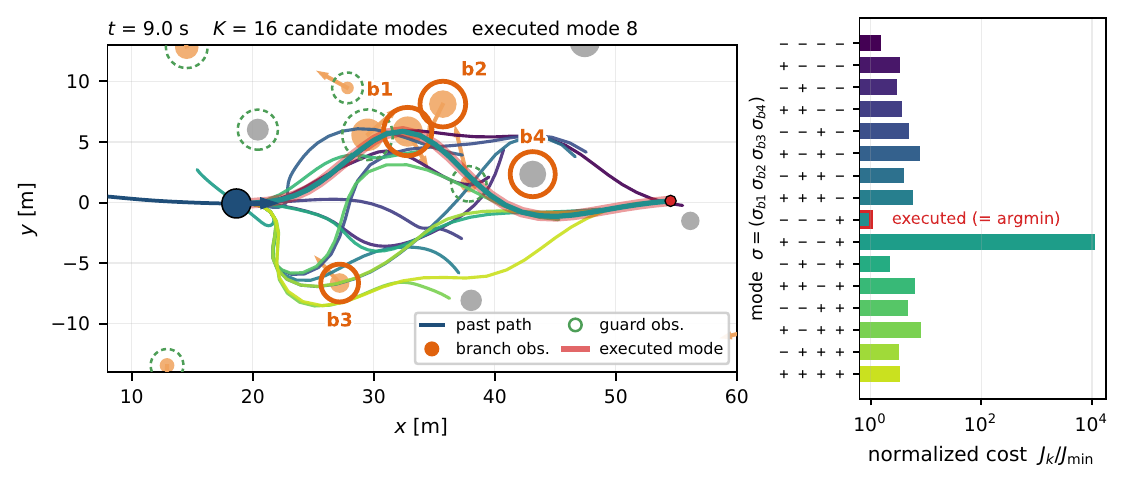
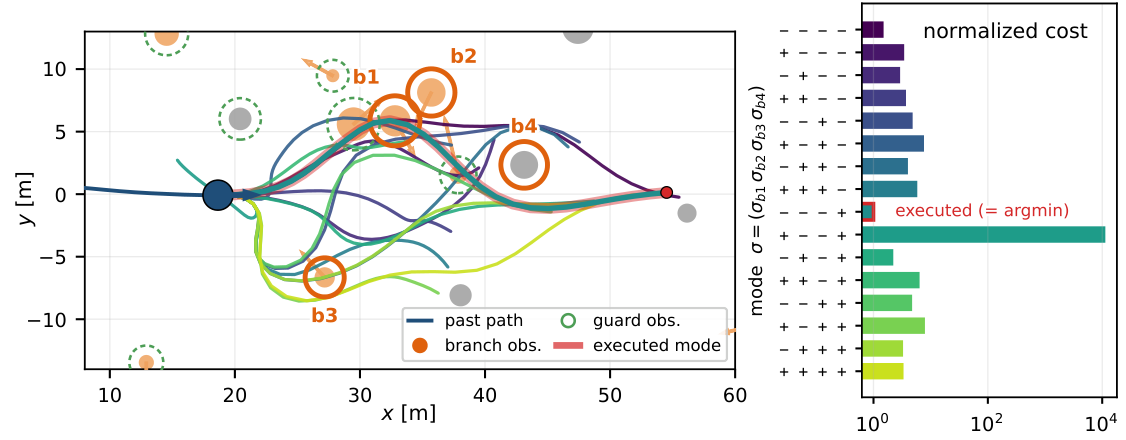
Add the overview and SideNet figures from the revised manuscript.
- New Overview section carrying Fig. 1(a) block structure and 1(b) the
  candidate and executed trajectories at a single planning step; it replaces
  the hand-built pill flow that said the same thing less clearly.
- New "SideNet, the mode proposer" section with the network figure.
- Regroup the two mode panels into one "Homotopy modes" section, matching the
  merged figure in the manuscript, and re-render both from the current PDFs.
- Re-render the overtaking profiles from the updated PDF.
- Replace the raw LaTeX left in the coupling-gallery captions with HTML
  markup; the page loads no math renderer, so it was showing the source.
- Note the 7,000+ closed-loop rollouts and add the funding acknowledgement.

diff --git a/index.html b/index.html
@@ -78,7 +78,8 @@ p.lead{color:var(--muted);text-align:center;max-width:860px;margin:6px auto 0}
 .playnote{text-align:center;font-size:13px;color:var(--faint);margin-top:2px}
 
 .figpair{display:grid;grid-template-columns:1.15fr .85fr;gap:16px;margin:16px 0 4px}
-@media(max-width:860px){.figpair{grid-template-columns:1fr}}
+.figpair.even{grid-template-columns:1fr 1fr}
+@media(max-width:860px){.figpair,.figpair.even{grid-template-columns:1fr}}
 
 .galgrid{display:grid;grid-template-columns:1fr 1fr;gap:14px 16px;margin:16px 0 4px}
 @media(max-width:700px){.galgrid{grid-template-columns:1fr}}
@@ -100,6 +101,8 @@ tbody tr.win td{font-weight:600}
 td.l,th.l{text-align:left}
 .good{color:var(--good);font-weight:600}
 figure.narrow img{max-width:min(100%,720px)}
+figure.mid img{max-width:min(100%,620px)}
+figcaption.center{text-align:center}
 
 footer{margin-top:52px;padding:24px 0 38px;border-top:1px solid var(--line);
  text-align:center;color:var(--faint);font-size:14px}
@@ -134,42 +137,51 @@ hr.sep{border:0;border-top:1px solid var(--line);margin:38px auto;max-width:900p
 </header>
 
 <section class="wide">
-<h2>The idea</h2>
+<h2>Overview</h2>
 <p class="lead">
 Multimodal TC-CBF MPC enumerates every left/right combination of the decision-critical
-obstacles&mdash;<i>K</i>&nbsp;=&nbsp;2<sup><i>N<sub>b</sub></i></sup> parallel OCPs.
-SideNet-MPC keeps only two: a GNN proposal and the previously executed decision.
+obstacles&mdash;<i>K</i>&nbsp;=&nbsp;2<sup><i>N<sub>b</sub></i></sup>&nbsp;=&nbsp;16 parallel OCPs.
+SideNet-MPC keeps only two: the side combination proposed by a graph network, and the
+decision executed at the previous step. The lower measured cost is executed.
 </p>
 
-<div class="flow">
-<div class="flowrow">
-<span class="who">Expert</span>
-<span class="pill">select obstacles</span>
-<span class="arrow">→</span>
-<span class="pill">solve all <i>K</i> = 16 OCPs</span>
-<span class="arrow">→</span>
-<span class="pill">lowest measured cost</span>
-</div>
-<div class="flowrow">
-<span class="who">SideNet-MPC</span>
-<span class="pill">same selection</span>
-<span class="arrow">→</span>
-<span class="pill hi">GNN proposes sides</span>
-<span class="arrow">→</span>
-<span class="pill hi">solve 2 OCPs</span>
-<span class="arrow">→</span>
-<span class="pill">lower measured cost</span>
-</div>
-</div>
+<figure class="mid">
+<img src="static/motv.png" alt="Block structure of the MM-MPC expert and of SideNet-MPC">
+<figcaption><b>(a) Block structure.</b> The expert solves all <i>K</i>&nbsp;=&nbsp;16 TC-CBF
+constrained OCPs per control period and executes the minimum-cost mode. SideNet-MPC predicts one
+avoidance side per branch obstacle, keeps the previously executed decision as a second candidate,
+and executes the lower-cost of only two OCP solutions.</figcaption>
+</figure>
 
-<div class="figpair">
 <figure>
-<img src="static/fig_modes16.png" alt="Sixteen candidate avoidance modes at one planning step">
-<figcaption><b>Sixteen modes at one step.</b> Each mode fixes the left/right side of four branch obstacles and solves one OCP. The expert picks the executed mode from the measured costs.</figcaption>
+<img src="static/motv_snap.png" alt="Candidate and executed trajectories at a single planning step">
+<figcaption><b>(b) One planning step of the same scene.</b> Candidates in grey; executed
+trajectory in red (expert) and blue (SideNet-MPC). Both commit to the same maneuver &mdash; the
+expert pays sixteen solves for it, the student two.</figcaption>
+</figure>
+</section>
+
+<hr class="sep">
+
+<section class="wide">
+<h2>Homotopy modes</h2>
+<p class="lead">
+Each sign assignment fixes the left/right side of every branch obstacle and yields one
+TC-CBF constrained OCP; the executed mode is the measured minimum.
+</p>
+
+<div class="figpair even">
+<figure>
+<img src="static/fig_modes4.png" alt="Four homotopy modes for two branch obstacles">
+<figcaption><b>(a) Two branch obstacles, <i>K</i>&nbsp;=&nbsp;2<sup>2</sup>.</b> The four sign
+assignments give distinct optimal trajectories whose costs are of comparable magnitude, so the
+choice is not resolved by local optimization alone.</figcaption>
 </figure>
 <figure>
-<img src="static/fig_modes4.png" alt="Four homotopy modes for two obstacles">
-<figcaption><b>Four homotopies, two obstacles.</b> The four sign assignments yield distinct trajectories of comparable cost; local optimization alone does not choose the side.</figcaption>
+<img src="static/fig_modes16.png" alt="Sixteen candidate avoidance modes in a cluttered scene">
+<figcaption><b>(b) Four branch obstacles, <i>K</i>&nbsp;=&nbsp;2<sup>4</sup>.</b> The same
+enumeration already costs sixteen solves per control period. This exponential budget is what the
+learned proposal replaces.</figcaption>
 </figure>
 </div>
 </section>
@@ -191,6 +203,30 @@ Training uses the 100-obstacle mix only; denser scenes are out of distribution.
 <figure class="narrow">
 <img src="static/fig_simenv_b.png" alt="Start-region enlargement with dynamic-obstacle headings">
 <figcaption><b>Start region.</b> Enlargement of the boxed stretch. Arrows show the sampled constant-velocity headings of the dynamic obstacles.</figcaption>
+</figure>
+</section>
+
+<hr class="sep">
+
+<section class="wide">
+<h2>SideNet, the mode proposer</h2>
+<p class="lead">
+The <i>N<sub>b</sub></i> branch slots form a complete graph. A single edge-conditioned
+message-passing layer carries the coupling that no per-obstacle feature can express.
+</p>
+
+<figure>
+<img src="static/avoidnet.png" alt="SideNet: shared backbone, edge-conditioned message passing, one logit per branch slot">
+<figcaption><b>SideNet.</b> A shared backbone embeds each 14-dimensional slot feature
+<b>x</b><sub><i>i</i></sub> (eight obstacle, six ego) as <b>h</b><sub><i>i</i></sub>, and every pair
+carries six edge features <b>e</b><sub><i>ij</i></sub> &mdash; among them the surface gap predicted
+at the shared encounter time <i>t</i><sup>*</sup><sub><i>ij</i></sub>, and flags against
+<i>w<sub>h</sub></i>&nbsp;=&nbsp;2<i>R<sub>s</sub></i> and
+<i>w<sub>s</sub></i>&nbsp;=&nbsp;2(<i>R<sub>s</sub></i>&nbsp;+&nbsp;&delta;). One residual layer
+sums the gated messages over <i>j</i>&nbsp;&ne;&nbsp;<i>i</i> and adds an update back onto
+<b>h</b><sub><i>i</i></sub>. A shared head emits one logit &#8467;<sub><i>i</i></sub> per slot,
+positive meaning pass on the right; the logit signs define the proposed mode
+<i>m</i><sup>nn</sup>.</figcaption>
 </figure>
 </section>
 
@@ -255,31 +291,32 @@ The GNN carries that pairwise gap on its edges.
 <div class="galgrid">
 <figure>
 <img src="static/fig_gallery_a.png" alt="Coupling gallery panel a: b2 on the free side, gap 3.4 m">
-<figcaption>(a) \(g^*=3.4\,\mathrm{m}\). MLP \(+0.10\) ✓, GNN \(+0.62\) ✓.</figcaption>
+<figcaption class="center">(a) <i>g</i><sup>*</sup> = 3.4 m. MLP +0.10 ✓, GNN +0.62 ✓.</figcaption>
 </figure>
 <figure>
 <img src="static/fig_gallery_b.png" alt="Coupling gallery panel b: b2 on the blocking side, gap 3.4 m">
-<figcaption>(b) \(g^*=3.4\,\mathrm{m}\). MLP \(+0.10\) ✗, GNN \(-1.48\) ✓.</figcaption>
+<figcaption class="center">(b) <i>g</i><sup>*</sup> = 3.4 m. MLP +0.10 ✗, GNN &minus;1.48 ✓.</figcaption>
 </figure>
 <figure>
 <img src="static/fig_gallery_c.png" alt="Coupling gallery panel c: b2 on the free side, gap 1.5 m">
-<figcaption>(c) \(g^*=1.5\,\mathrm{m}\). MLP \(+0.10\) ✓, GNN \(+1.89\) ✓.</figcaption>
+<figcaption class="center">(c) <i>g</i><sup>*</sup> = 1.5 m. MLP +0.10 ✓, GNN +1.89 ✓.</figcaption>
 </figure>
 <figure>
 <img src="static/fig_gallery_d.png" alt="Coupling gallery panel d: b2 on the blocking side, gap 1.5 m">
-<figcaption>(d) \(g^*=1.5\,\mathrm{m}\). MLP \(+0.10\) ✗, GNN \(-1.79\) ✓.</figcaption>
+<figcaption class="center">(d) <i>g</i><sup>*</sup> = 1.5 m. MLP +0.10 ✗, GNN &minus;1.79 ✓.</figcaption>
 </figure>
 </div>
 <p class="lead" style="margin-top:8px;font-size:14.5px;text-align:justify;max-width:980px">
 <b style="color:var(--ink)">Coupling gallery.</b>
-Ego heading, speed, and \(b_1\) are identical in all four panels; only \(b_2\) moves.
-(a),(c): \(b_2\) on the free side of \(b_1\).
-(b),(d): \(b_2\) on the blocking side.
+Ego heading, speed, and <i>b</i><sub>1</sub> are identical in all four panels; only
+<i>b</i><sub>2</sub> moves.
+(a),&nbsp;(c): <i>b</i><sub>2</sub> on the free side of <i>b</i><sub>1</sub>.
+(b),&nbsp;(d): <i>b</i><sub>2</sub> on the blocking side.
 Red: expert arg-min trajectory.
-\(g^*\): pair gap at the time the vehicle arrives.
-Numbers are lead-slot logits \(\ell_{b_1}\) (positive: pass \(b_1\) on the right).
-The MLP value is identical by construction.
-✓/✗: the sign agrees / disagrees with the expert bit of \(b_1\).
+<i>g</i><sup>*</sup>: pair gap at the time the vehicle arrives.
+The numbers are lead-slot logits &#8467;<sub><i>b</i><sub>1</sub></sub>
+(positive: pass <i>b</i><sub>1</sub> on the right); the MLP value is identical by construction.
+✓/✗: the sign agrees / disagrees with the expert bit of <i>b</i><sub>1</sub>.
 </p>
 </section>
 
@@ -288,7 +325,8 @@ The MLP value is identical by construction.
 <section class="wide">
 <h2>Density sweep</h2>
 <p class="lead">
-300 seeds per cell. Training used the 100-obstacle setting only; 120–140 are out of distribution.
+300 seeds per cell, more than 7,000 closed-loop rollouts in total. Training used the
+100-obstacle setting only; 120&ndash;140 are out of distribution.
 </p>
 
 <figure>
@@ -376,7 +414,10 @@ The other two-solve rows share the same OCP budget. SideNet-MPC is about 11&time
 </section>
 
 <footer>
-Supplementary figures and videos for a manuscript under review. Static site, no tracking.
+Supplementary figures and videos for a manuscript under review. Static site, no tracking.<br>
+Supported by the Glocal University 30 Project of Kongju National University in 2026, and by the
+National Research Foundation of Korea (NRF) grant funded by the Korea government (MSIT)
+(No.&nbsp;RS-2026-25490010).
 </footer>
 
 <script>
